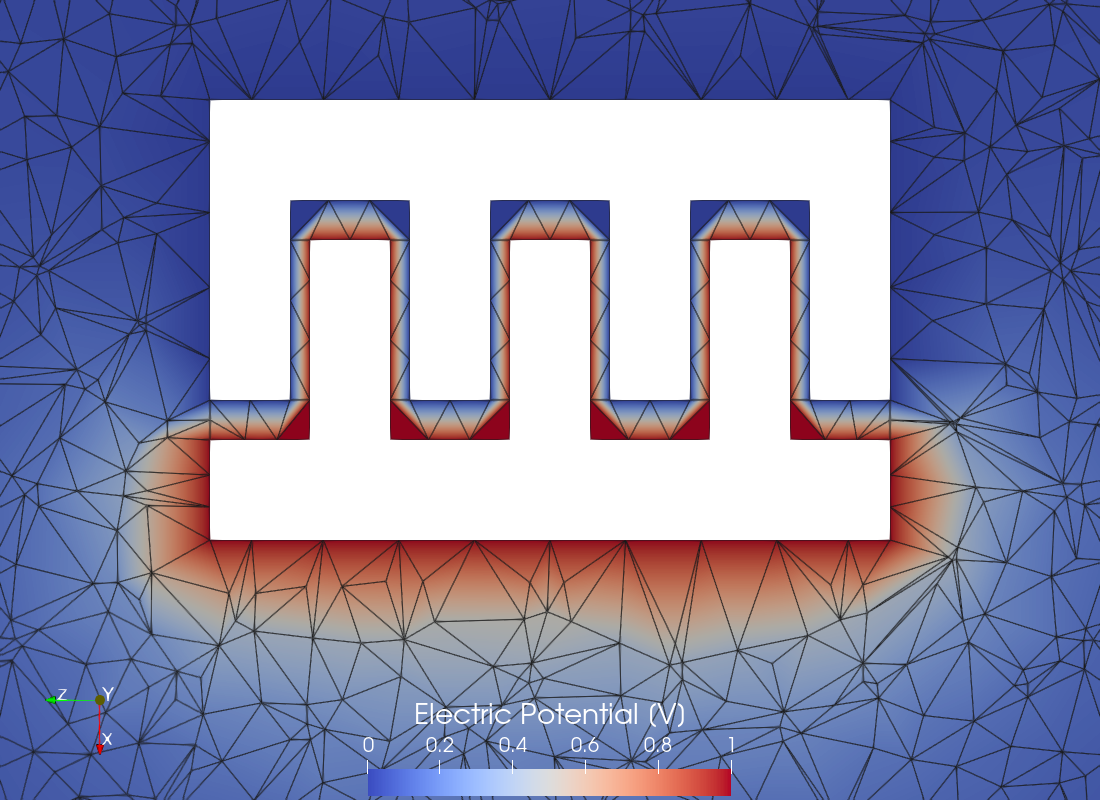
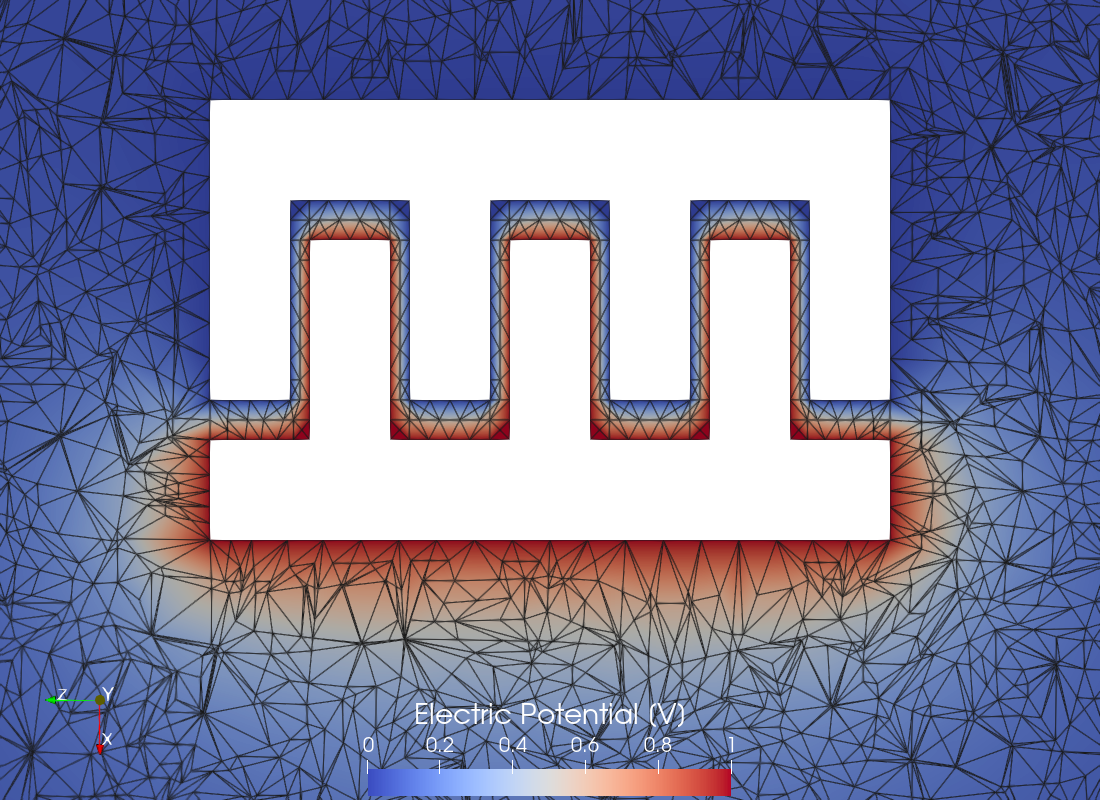
Update the field exporter order

Changed region(s): [[0.0, 0.0, 1.0, 1.0]]

diff --git a/Electromagnetics/Ren_2014_MEMS_Comb_Drive/case.py b/Electromagnetics/Ren_2014_MEMS_Comb_Drive/case.py
@@ -172,7 +172,7 @@ for xshift in xshifts:
         runner.advance(2)
 
         if i == 0:
-            vis.save()
+            vis.save(order=2)
 
         ncells = sim.get_domain().get_mesh().get_total_number_cells()
         energy = report.evaluate()
@@ -192,4 +192,4 @@ for xshift in xshifts:
             "Maximum number of iterations reached without reaching max_ncells."
         )
 
-    vis.save()
+    vis.save(order=2)

diff --git a/Electromagnetics/Ren_2014_MEMS_Comb_Drive/paraview_mesh.py b/Electromagnetics/Ren_2014_MEMS_Comb_Drive/paraview_mesh.py
@@ -42,7 +42,7 @@ def create_scene(data_file, screenshot_file, show=False):
     display.Representation = "Surface With Edges"
     display.EdgeColor = [0.1, 0.1, 0.1]
     display.LineWidth = 1
-    display.NonlinearSubdivisionLevel = 1
+    display.NonlinearSubdivisionLevel = 2
 
     pvs.ColorBy(display, ("POINTS", field_name))
 

diff --git a/Electromagnetics/Ren_2014_MEMS_Comb_Drive/paraview_gif.py b/Electromagnetics/Ren_2014_MEMS_Comb_Drive/paraview_gif.py
@@ -42,7 +42,7 @@ def create_scene(data_file, screenshot_file, show=False):
     # Display settings:
     display = pvs.Show()
     display.Representation = "Surface"
-    display.NonlinearSubdivisionLevel = 1
+    display.NonlinearSubdivisionLevel = 2
 
     pvs.ColorBy(display, ("POINTS", field_name))
 

diff --git a/Electromagnetics/Ren_2014_MEMS_Comb_Drive/README.md b/Electromagnetics/Ren_2014_MEMS_Comb_Drive/README.md
@@ -87,7 +87,7 @@ for xshift in xshifts:
         runner.advance(2)
 
         if i == 0:
-            vis.save()
+            vis.save(order=2)
 
         ncells = sim.get_domain().get_mesh().get_total_number_cells()
         energy = report.evaluate()
@@ -107,7 +107,7 @@ for xshift in xshifts:
             "Maximum number of iterations reached without reaching max_ncells."
         )
 
-    vis.save()
+    vis.save(order=2)
 ```
 The external `for` loop iterates through all inter-comb shifts. At the start of each iteration, we generate the corresponding geometry by invoking `create_geometry(xshift)`, which writes the associated mesh to a file. Meanwhile, the internal `for` loop refines the mesh according to the established mesh refinement algorithm. This loop continues until the number of mesh elements surpasses the empirically determined limit of `max_ncells`, which is set at 100,000. For each mesh file, we save the electric potential obtained from both the initial and final meshes in the [VTK](https://vtk.org/) file format, allowing for subsequent visualization using [ParaView](https://www.paraview.org/).
 
